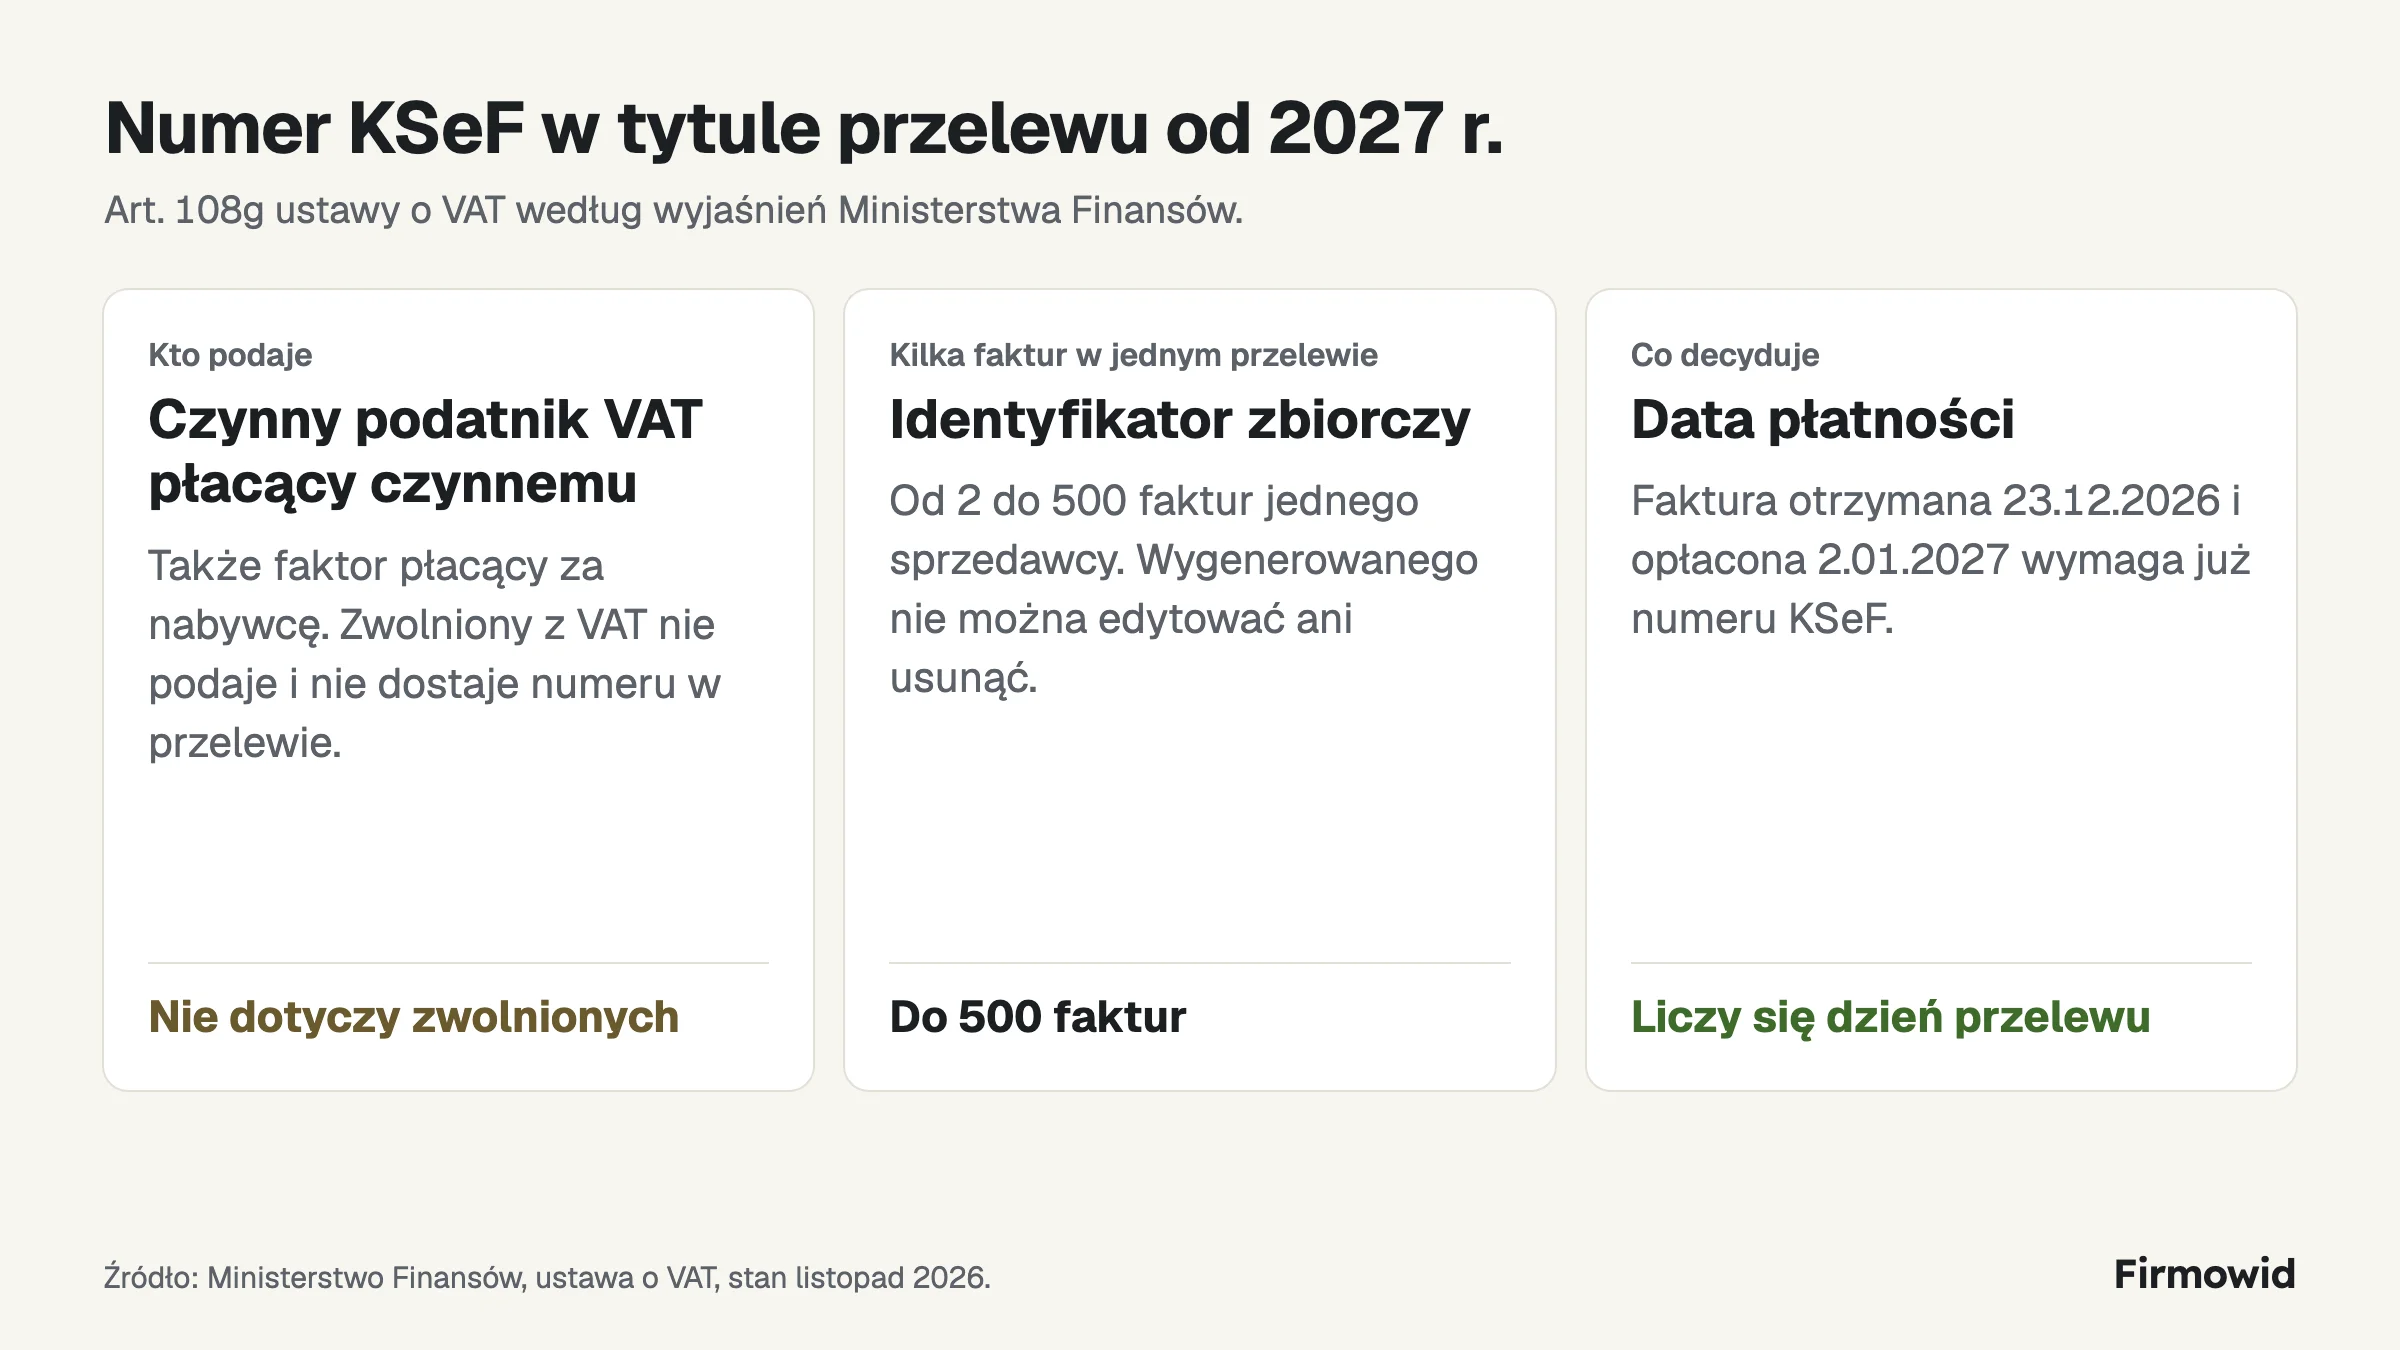
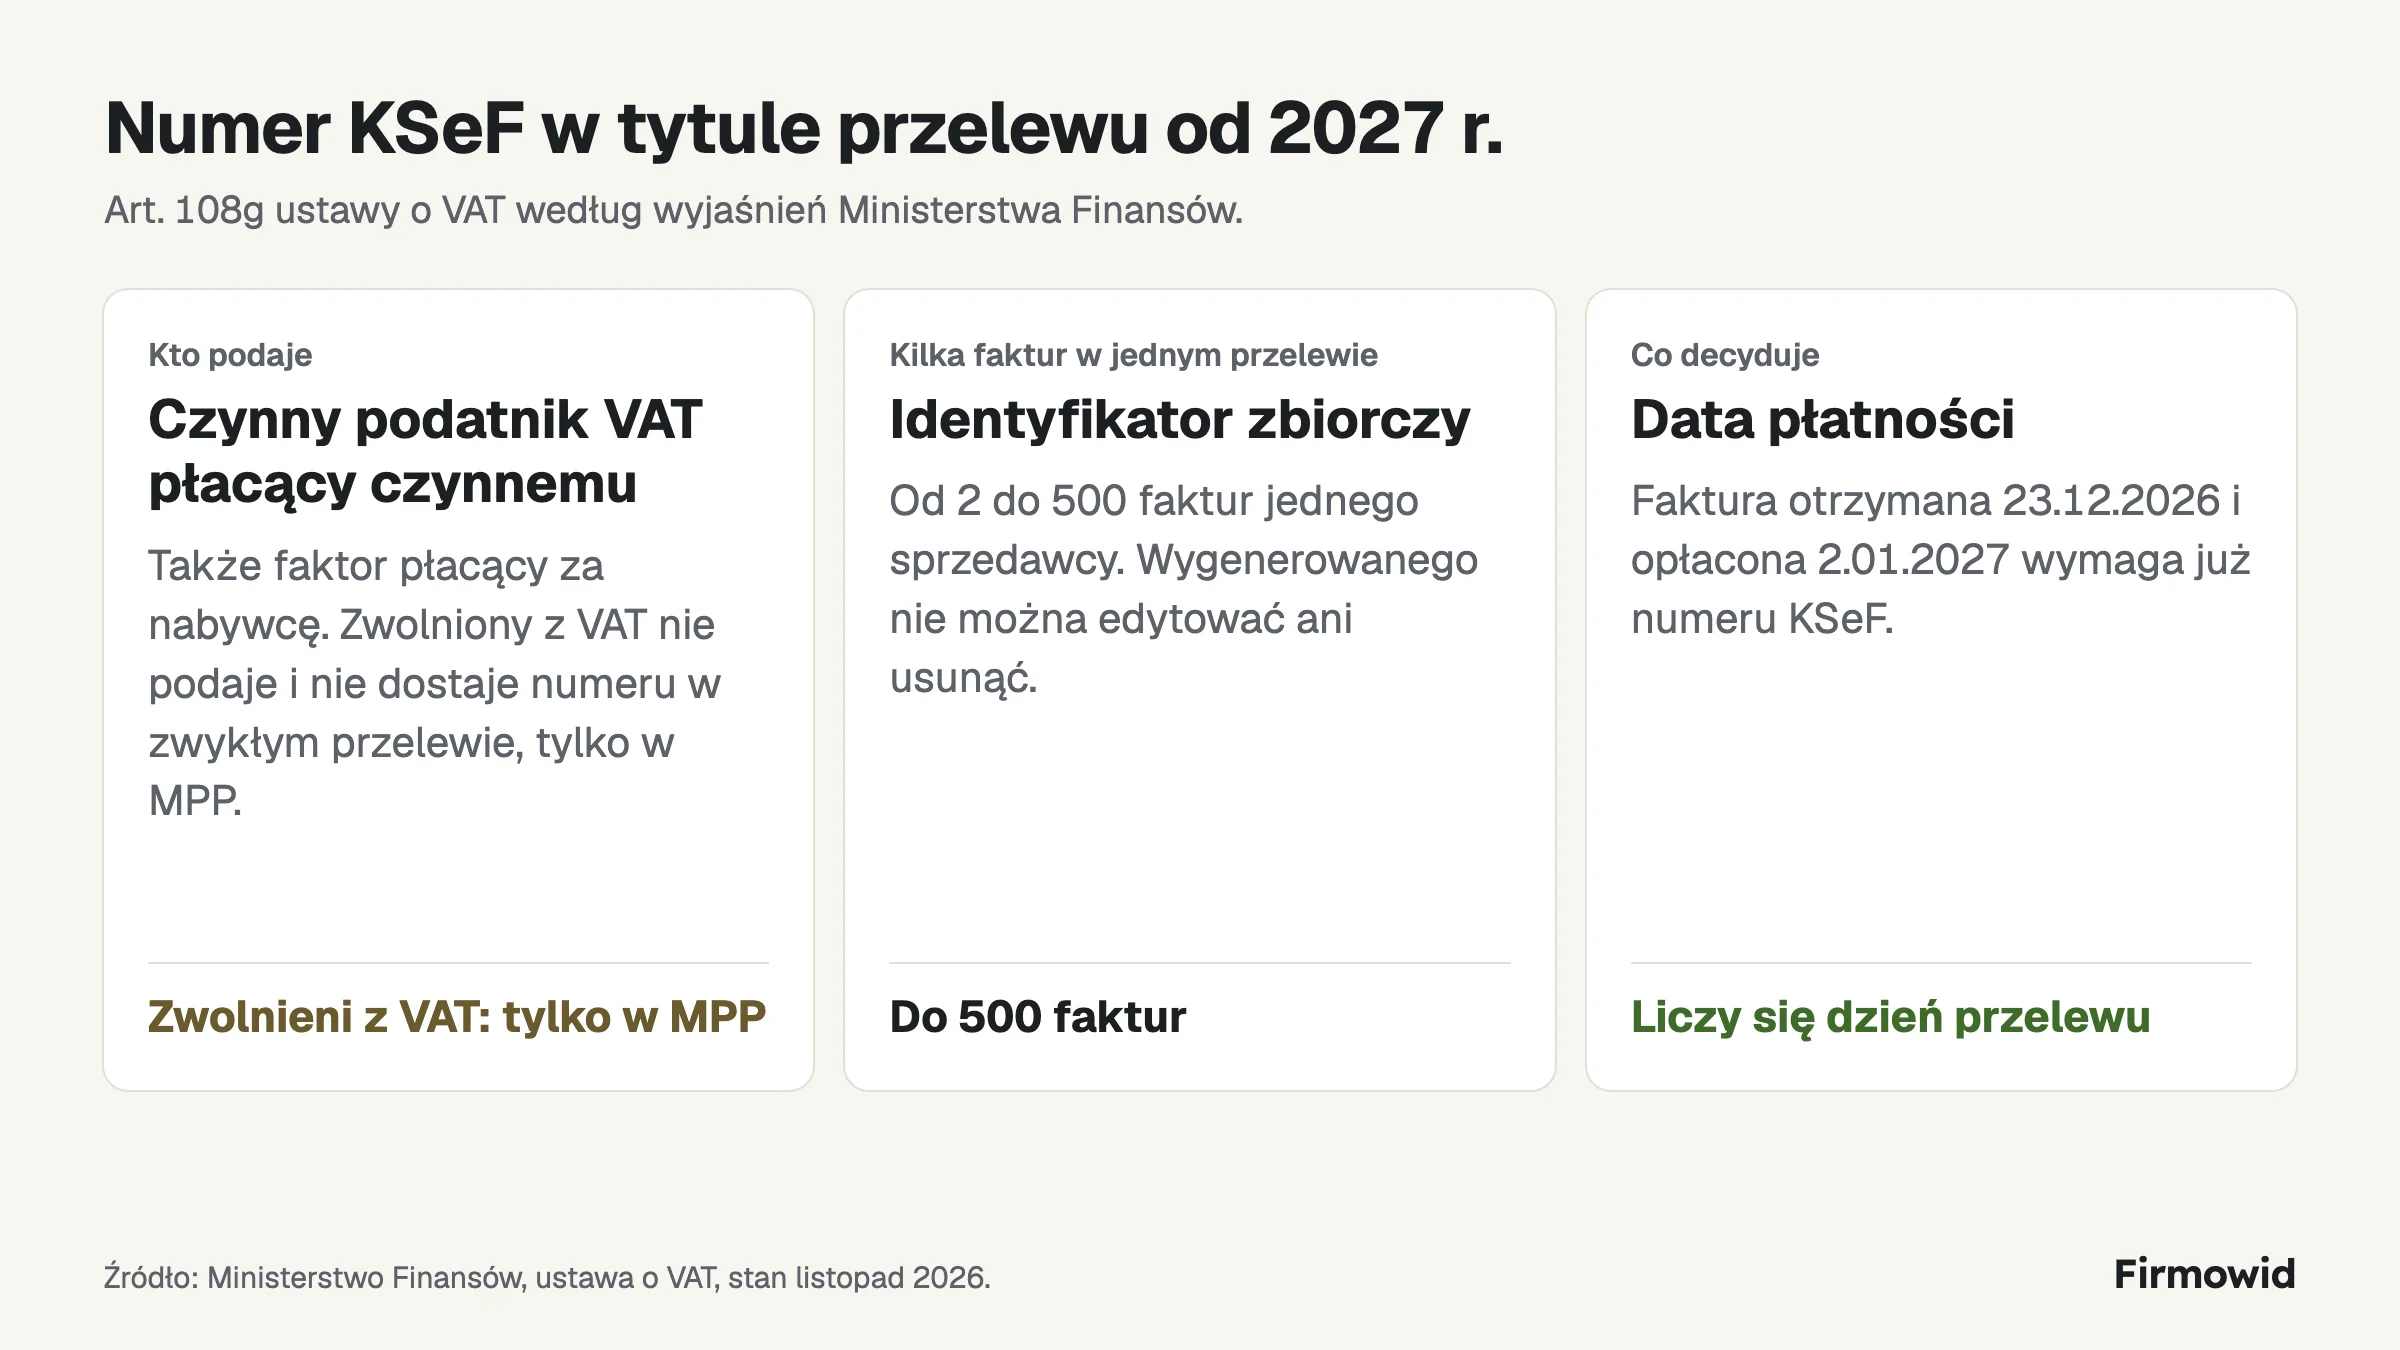
fix(landing): exempt payers give the KSeF number only in split payment
Addresses review feedback on PR #415.

Changed region(s): [[0.0625, 0.7156, 0.3125, 0.7778], [0.0625, 0.5289, 0.2812, 0.6222]]

diff --git a/priv/guides/numer-ksef-w-przelewie-2027.md b/priv/guides/numer-ksef-w-przelewie-2027.md
@@ -16,7 +16,7 @@ Identyfikator zbiorczy obejmuje co najmniej dwa numery KSeF, a według odpowiedz
 
 Ministerstwo wyjaśnia też, że numer podaje faktor lub inny podmiot płacący w imieniu nabywcy, o ile jest czynnym podatnikiem VAT, a nie podaje go nabywca przekazujący zapłatę komornikowi w ramach zajęcia wierzytelności dostawcy. Obowiązek nie obejmuje faktur wystawionych w trybie awaryjnym, a o jego zastosowaniu przesądza data płatności, dlatego faktura otrzymana w KSeF 23 grudnia 2026 r. i opłacona 2 stycznia 2027 r. wymaga już podania numeru. W Firmowidzie, naszym programie do faktur, wysyłka faktury mailem do klienta następuje domyślnie dopiero po nadaniu jej numeru KSeF.
 
-![Od 2027 r. numer KSeF w tytule przelewu podaje czynny podatnik VAT płacący innemu czynnemu podatnikowi, a zwolnionych z VAT to nie dotyczy. Przelew za kilka faktur jednego sprzedawcy ma identyfikator zbiorczy do 500 faktur. O obowiązku decyduje data płatności.](/images/guides/numer-ksef-w-przelewie-kto-podaje.webp)
+![Od 2027 r. numer KSeF w tytule przelewu podaje czynny podatnik VAT płacący innemu czynnemu podatnikowi, a zwolnionych z VAT to nie dotyczy, chyba że płacą w MPP. Przelew za kilka faktur jednego sprzedawcy ma identyfikator zbiorczy do 500 faktur. O obowiązku decyduje data płatności.](/images/guides/numer-ksef-w-przelewie-kto-podaje.webp)
 
 ## Źródła
 
